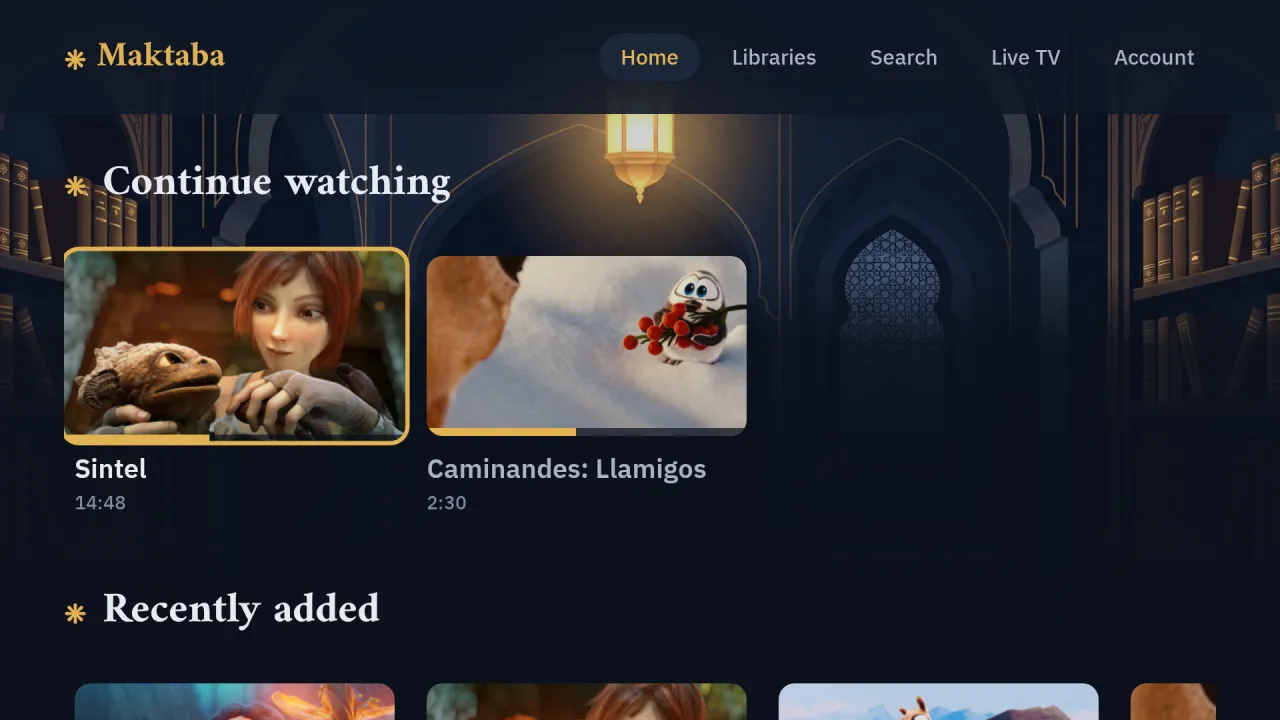
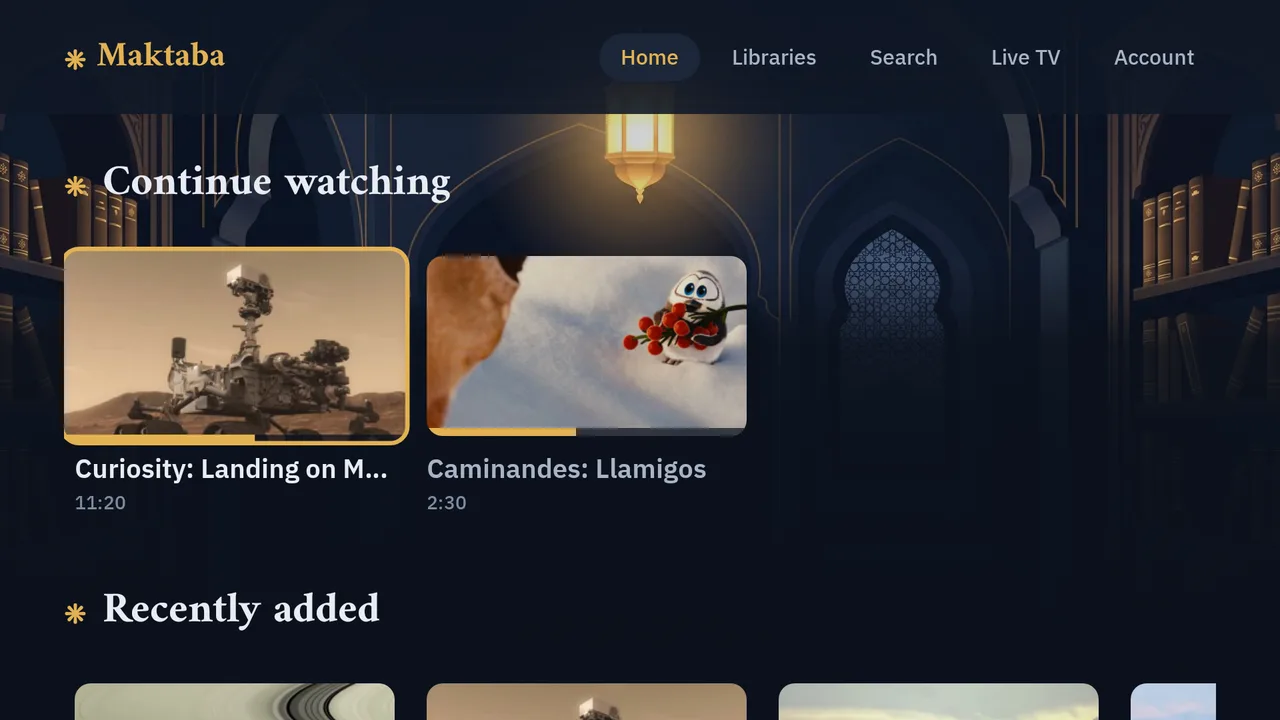
fix(devportal): maktaba.dev's screenshots retaken with no woman or girl, from CI run 45328154156
Fourteen of the Apps pages' screenshots showed a woman or a woman's name. They are now
made from this pull request's CI run 45328154156 and the committed references:
- firetv-home and firetv-library (en, ar): the Fire TV build's Roborazzi references on
  the new demo library (they showed Sintel);
- big-search-filters (en, ar): the /tv/ Playwright test's screenshots (tv-web-logs), the
  speaker now Ibrahim (was Maryam);
- roku-search-filters (en, ar): the Roku screen tests' build/screens (roku-logs), the
  speaker now Hassan (was Rania); the three search-filters references take the same images;
- web-search, web-search-suggest, web-search-ai (en, ar): the web capture's new screens
  (product-shots-web), signed in as the demo household's haddad (was sara, amina), on the
  demo library; their alt texts follow what they show.
Each is resized and written with cwebp -metadata none, under 100 KB.

The Android Player's four profile references showed the fixture user layla within
Roborazzi's 2% threshold; they are removed so the next run writes them with yusuf.

diff --git a/CHANGELOG.ar.md b/CHANGELOG.ar.md
@@ -13,6 +13,10 @@
 
 ### تغيّر
 
+- **لا تظهر امرأة ولا فتاة في لقطات maktaba.dev.** أُعيد التقاط لقطات فاير تي في والشاشة الكبيرة
+  وروكو والبحث في الويب في صفحات التطبيقات، على بيانات اختبار بأسماء رجال فقط وعلى المكتبة
+  التجريبية الجديدة. بالإنجليزية والعربية.
+
 - **صفحة واحدة للحصول على مكتبة: maktaba.tv/download.** تسرد صفحة التنزيل الآن كل أدلة الإعداد
   تحت أزرار التنزيل: Synology وTrueNAS وUnraid وQNAP وUGREEN وASUSTOR، وDocker، وما بعد الإعداد، وحل
   المشكلات، ولكل دليل سطر يقول ما يتناوله. ويذهب زر بطاقة خوادم التخزين مباشرةً إلى أدلتها. وصار

diff --git a/CHANGELOG.md b/CHANGELOG.md
@@ -14,6 +14,10 @@ build fails when the two differ.
 
 ### Changed
 
+- **maktaba.dev's screenshots show no woman or girl.** The Fire TV, big screen, Roku and web
+  search screenshots on the Apps pages were retaken on test data with men's names only and on
+  the new demo library. In English and Arabic.
+
 - **One page to get Maktaba: maktaba.tv/download.** The download page now lists every setup
   guide under its download buttons: Synology, TrueNAS, Unraid, QNAP, UGREEN and ASUSTOR, Docker,
   after setup and troubleshooting, each with one line on what it covers. The NAS card's button
